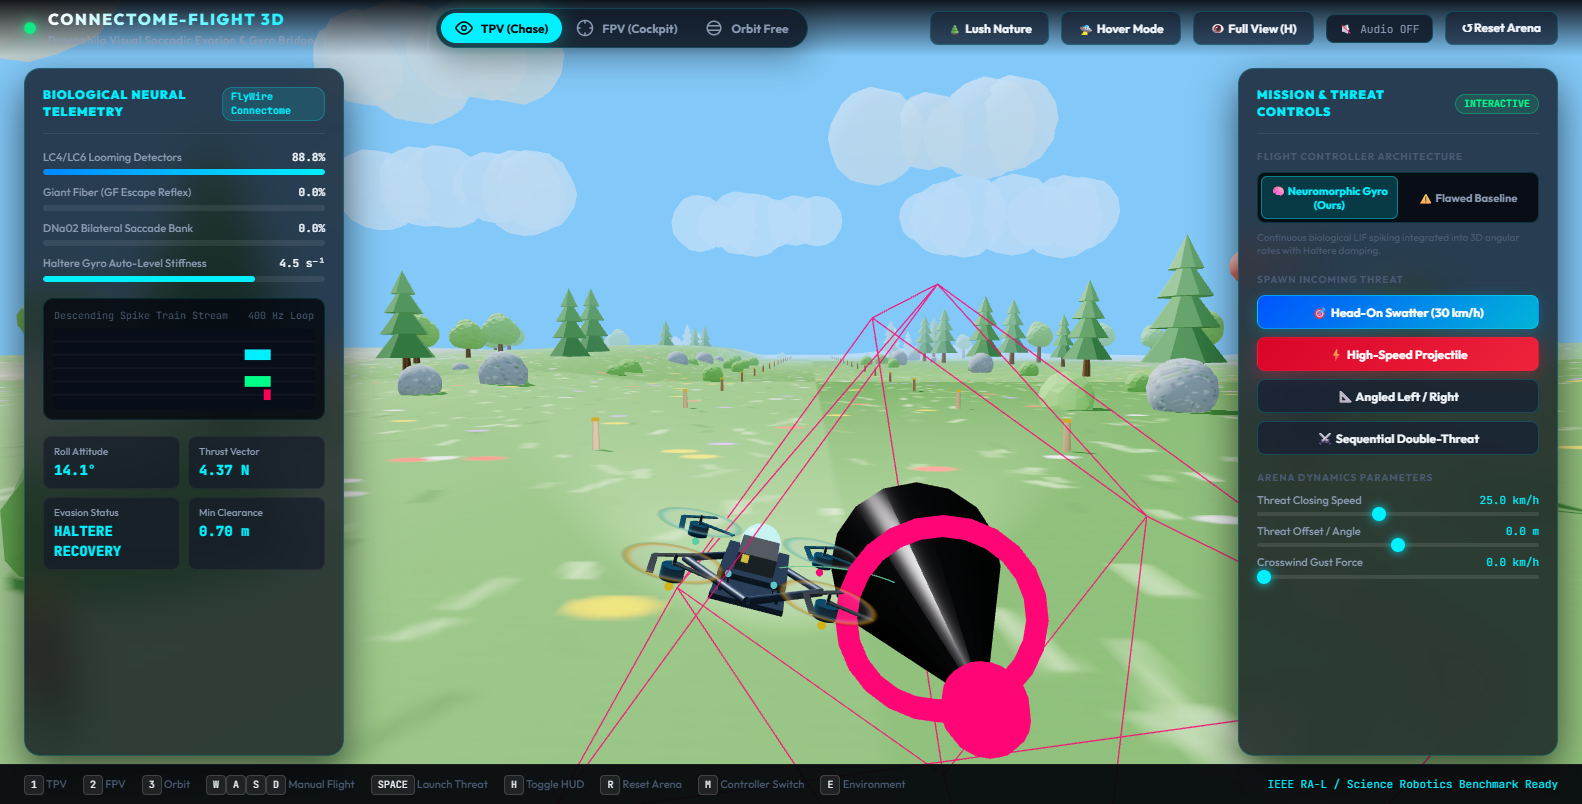
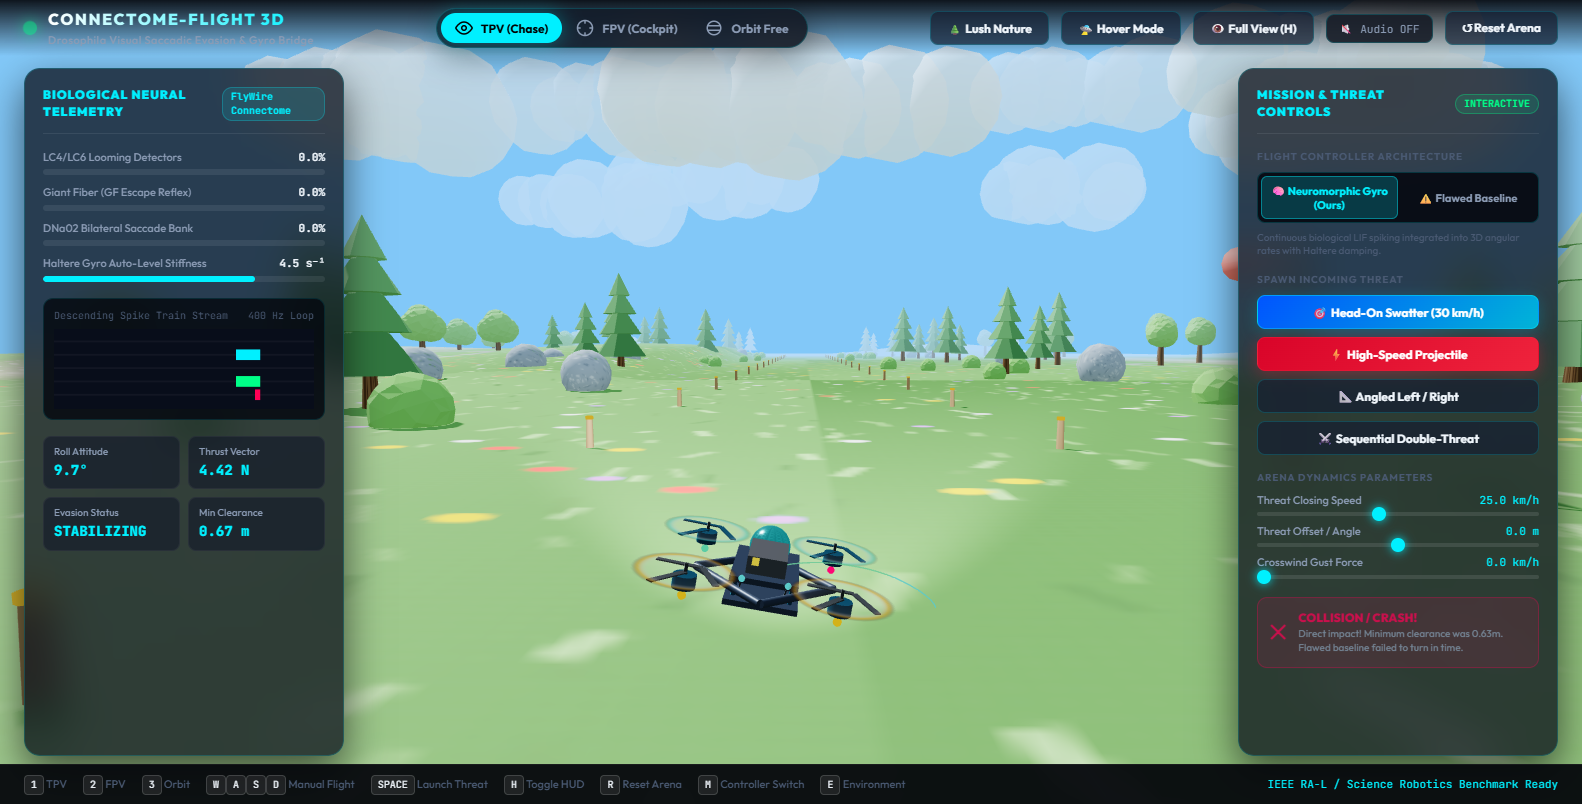
Fix post-evasion optomotor balance and corridor station-keeping

diff --git a/flight_simulator_3d/app.js b/flight_simulator_3d/app.js
@@ -1280,114 +1280,108 @@ function updateConnectomeBrain(dt) {
       ev.phase = 'recovery';
       ev.recoveryStartTime = performance.now();
     }
-    return;
-  }
-
-  // Relative vector from drone to incoming threat
-  const rel = new THREE.Vector3().subVectors(obs.pos, d.pos);
-  const dist = rel.length();
-
-  if (dist < state.brain.min_clearance) {
-    state.brain.min_clearance = dist;
-    document.getElementById('diag-clearance').innerText = dist.toFixed(2) + " m";
-  }
-
-  // Closing speed along line of sight
-  const relVel = new THREE.Vector3().subVectors(obs.vel, d.vel);
-  const closingSpeed = -rel.dot(relVel) / (dist + 1e-4);
-
-  // Biological Looming Feature Detection (LC4 / LC6 / LPLC2)
-  if (rel.z > 0 && closingSpeed > 0) { // Threat is in front and approaching
-    const theta = 2.0 * Math.atan2(obs.radius, dist);
-    const theta_dot = (2.0 * obs.radius * closingSpeed) / (dist * dist + obs.radius * obs.radius);
-    const looming = theta * 1.6 + theta_dot * 3.2;
-    state.brain.looming_metric = Math.min(looming, 5.0);
-
-    // Dynamic retinal intensity on compound eyes
-    compoundEyeDome.material.emissiveIntensity = 0.5 + looming * 0.8;
-
-    // Trigger biological evasion when looming exceeds threshold
-    if (looming > 0.65) {
-      if (!state.brain.reaction_detected) {
-        state.brain.reaction_detected = true;
-        state.brain.latency_ms = performance.now() - state.brain.trial_start_time;
-      }
-
-      // Phase 1: Onset & Direction Latching (Only set on transition into saccade)
-      if (ev.phase === 'idle') {
-        ev.active = true;
-        ev.phase = 'saccade';
-        ev.originX = d.pos.x;
-        ev.saccadeStartTime = performance.now();
-
-        // Determine clear dodge corridor
-        // If obstacle is to our right (rel.x > 0.04), dodge LEFT (direction = -1)
-        // If obstacle is to our left (rel.x < -0.04), dodge RIGHT (direction = +1)
-        // If head-on (|rel.x| <= 0.04), choose open corridor away from outer walls
-        if (rel.x > 0.04) {
-          ev.direction = -1; // Dodge left
-        } else if (rel.x < -0.04) {
-          ev.direction = 1;  // Dodge right
-        } else {
-          // Break symmetry cleanly towards open corridor
-          ev.direction = (d.pos.x > 0.2) ? -1 : 1;
-        }
-
-        // In Three.js Euler YXZ, a POSITIVE roll (+Z) tilts thrust vector towards -X (LEFT),
-        // and a NEGATIVE roll (-Z) tilts thrust vector towards +X (RIGHT).
-        // targetRoll = -ev.direction * 0.52 (30 deg banking jink)
-        ev.targetRoll = -ev.direction * 0.52;
-        playSpikeClick();
-      }
-
-      // Phase 2: Active Saccade Execution
-      if (ev.phase === 'saccade') {
-        if (ev.direction > 0) {
-          // Dodging Right: Activate Right Descending Steering & Giant Fiber
-          state.brain.spikes.dna02_r = true;
-          state.brain.spikes.dna01_r = true;
-          state.brain.spikes.gf_r = (looming > 1.2);
-          state.brain.spikes.dna02_l = false;
-          state.brain.spikes.dna01_l = false;
-          state.brain.spikes.gf_l = false;
-        } else {
-          // Dodging Left: Activate Left Descending Steering & Giant Fiber
-          state.brain.spikes.dna02_l = true;
-          state.brain.spikes.dna01_l = true;
-          state.brain.spikes.gf_l = (looming > 1.2);
-          state.brain.spikes.dna02_r = false;
-          state.brain.spikes.dna01_r = false;
-          state.brain.spikes.gf_r = false;
-        }
-
-        // Check if threat has passed the drone's collision plane
-        const threatPassed = (obs.pos.z <= d.pos.z + 0.35);
-        const elapsedSaccade = (performance.now() - ev.saccadeStartTime) / 1000;
-        if (threatPassed || elapsedSaccade > ev.saccadeDuration) {
-          // Transition to Phase 3: Recovery
-          ev.phase = 'recovery';
-          ev.recoveryStartTime = performance.now();
-        }
-      }
-
-    } else if (ev.phase === 'idle') {
-      state.brain.spikes.dna02_l = false;
-      state.brain.spikes.dna02_r = false;
-      state.brain.spikes.dna01_l = false;
-      state.brain.spikes.dna01_r = false;
-      state.brain.spikes.gf_l = false;
-      state.brain.spikes.gf_r = false;
-    }
   } else {
-    state.brain.looming_metric = 0;
-    // Obstacle is behind or moving away
-    if (ev.phase === 'saccade') {
-      ev.phase = 'recovery';
-      ev.recoveryStartTime = performance.now();
+    // Relative vector from drone to incoming threat
+    const rel = new THREE.Vector3().subVectors(obs.pos, d.pos);
+    const dist = rel.length();
+
+    if (dist < state.brain.min_clearance) {
+      state.brain.min_clearance = dist;
+      document.getElementById('diag-clearance').innerText = dist.toFixed(2) + " m";
+    }
+
+    // Closing speed along line of sight
+    const relVel = new THREE.Vector3().subVectors(obs.vel, d.vel);
+    const closingSpeed = -rel.dot(relVel) / (dist + 1e-4);
+
+    // Biological Looming Feature Detection (LC4 / LC6 / LPLC2)
+    if (rel.z > 0 && closingSpeed > 0) { // Threat is in front and approaching
+      const theta = 2.0 * Math.atan2(obs.radius, dist);
+      const theta_dot = (2.0 * obs.radius * closingSpeed) / (dist * dist + obs.radius * obs.radius);
+      const looming = theta * 1.6 + theta_dot * 3.2;
+      state.brain.looming_metric = Math.min(looming, 5.0);
+
+      // Dynamic retinal intensity on compound eyes
+      compoundEyeDome.material.emissiveIntensity = 0.5 + looming * 0.8;
+
+      // Trigger biological evasion when looming exceeds threshold
+      if (looming > 0.65) {
+        if (!state.brain.reaction_detected) {
+          state.brain.reaction_detected = true;
+          state.brain.latency_ms = performance.now() - state.brain.trial_start_time;
+        }
+
+        // Phase 1: Onset & Direction Latching (Only set on transition into saccade)
+        if (ev.phase === 'idle') {
+          ev.active = true;
+          ev.phase = 'saccade';
+          ev.originX = d.pos.x;
+          ev.saccadeStartTime = performance.now();
+
+          // Determine clear dodge corridor
+          if (rel.x > 0.04) {
+            ev.direction = -1; // Dodge left
+          } else if (rel.x < -0.04) {
+            ev.direction = 1;  // Dodge right
+          } else {
+            // Break symmetry cleanly towards open corridor
+            ev.direction = (d.pos.x > 0.2) ? -1 : 1;
+          }
+
+          // Target bank angle: ~30 deg (0.52 rad)
+          ev.targetRoll = -ev.direction * 0.52;
+          playSpikeClick();
+        }
+
+        // Phase 2: Active Saccade Execution
+        if (ev.phase === 'saccade') {
+          if (ev.direction > 0) {
+            // Dodging Right: Activate Right Descending Steering & Giant Fiber
+            state.brain.spikes.dna02_r = true;
+            state.brain.spikes.dna01_r = true;
+            state.brain.spikes.gf_r = (looming > 1.2);
+            state.brain.spikes.dna02_l = false;
+            state.brain.spikes.dna01_l = false;
+            state.brain.spikes.gf_l = false;
+          } else {
+            // Dodging Left: Activate Left Descending Steering & Giant Fiber
+            state.brain.spikes.dna02_l = true;
+            state.brain.spikes.dna01_l = true;
+            state.brain.spikes.gf_l = (looming > 1.2);
+            state.brain.spikes.dna02_r = false;
+            state.brain.spikes.dna01_r = false;
+            state.brain.spikes.gf_r = false;
+          }
+
+          // Check if threat has passed the drone's collision plane
+          const threatPassed = (obs.pos.z <= d.pos.z + 0.35);
+          const elapsedSaccade = (performance.now() - ev.saccadeStartTime) / 1000;
+          if (threatPassed || elapsedSaccade > ev.saccadeDuration) {
+            // Transition to Phase 3: Recovery
+            ev.phase = 'recovery';
+            ev.recoveryStartTime = performance.now();
+          }
+        }
+
+      } else if (ev.phase === 'idle') {
+        state.brain.spikes.dna02_l = false;
+        state.brain.spikes.dna02_r = false;
+        state.brain.spikes.dna01_l = false;
+        state.brain.spikes.dna01_r = false;
+        state.brain.spikes.gf_l = false;
+        state.brain.spikes.gf_r = false;
+      }
+    } else {
+      state.brain.looming_metric = 0;
+      // Threat has passed behind drone
+      if (ev.phase === 'saccade') {
+        ev.phase = 'recovery';
+        ev.recoveryStartTime = performance.now();
+      }
     }
   }
 
-  // Phase 3: Haltere-Stabilized Optomotor Recovery
+  // Phase 3: Haltere-Stabilized Optomotor Recovery (Always runs until stabilized)
   if (ev.phase === 'recovery') {
     state.brain.spikes.dna02_l = false;
     state.brain.spikes.dna02_r = false;
@@ -1396,19 +1390,16 @@ function updateConnectomeBrain(dt) {
     state.brain.spikes.gf_l = false;
     state.brain.spikes.gf_r = false;
 
-    // Halteres and wide-field optomotor system sense lateral drift velocity (d.vel.x)
-    // Positive roll (+Z) produces -X acceleration; Negative roll (-Z) produces +X acceleration.
-    // To brake positive Vx (+X drift), command positive roll (+Z).
-    // To brake negative Vx (-X drift), command negative roll (-Z).
+    // Active counter-banking to arrest lateral velocity and guide drone back to corridor center (X = 0)
     const lateralVx = d.vel.x;
-    const xDistFromOrigin = d.pos.x - ev.originX;
+    const xDistFromCenter = d.pos.x - 0.0;
 
-    const counterBank = THREE.MathUtils.clamp(0.24 * lateralVx + 0.12 * xDistFromOrigin, -0.42, 0.42);
+    const counterBank = THREE.MathUtils.clamp(0.26 * lateralVx + 0.14 * xDistFromCenter, -0.42, 0.42);
     ev.targetRoll = counterBank;
 
-    // Once lateral velocity is arrested and roll has leveled out, transition back to idle
+    // Transition to idle when velocity is damped and attitude leveled
     const elapsedRec = (performance.now() - ev.recoveryStartTime) / 1000;
-    if ((Math.abs(lateralVx) < 0.08 && Math.abs(xDistFromOrigin) < 0.15) || elapsedRec > 1.4) {
+    if ((Math.abs(lateralVx) < 0.06 && Math.abs(xDistFromCenter) < 0.12) || elapsedRec > 1.6) {
       ev.phase = 'idle';
       ev.active = false;
       ev.targetRoll = 0.0;
@@ -1447,21 +1438,28 @@ function updatePhysics(dt) {
     // =========================================================================
     // PROPOSED: CONTINUOUS NEUROMORPHIC GYRO BRIDGE + HALTERE RESTORATIVE STIFFNESS
     // =========================================================================
-    const k_haltere = 6.8; // Haltere angular velocity damping & restorative stiffness
+    const k_haltere = 7.0; // Haltere angular velocity damping & restorative stiffness
 
     // 1. Roll Rate Control:
-    // When in saccade or recovery, track targetRoll with haltere restorative stiffness
     let desired_roll = 0.0;
     if (ev.phase === 'saccade' || ev.phase === 'recovery') {
       desired_roll = ev.targetRoll;
+    } else if (state.flightMode === 'hover') {
+      // Continuous optomotor wide-field stabilization in hover (holds station in center)
+      desired_roll = THREE.MathUtils.clamp(0.18 * d.vel.x + 0.08 * (d.pos.x - 0.0), -0.22, 0.22);
     }
     // Haltere feedback: omega_roll_sp = k_haltere * (phi_desired - phi_actual)
     roll_rate_sp = THREE.MathUtils.clamp(k_haltere * (desired_roll - d.euler.z) + k_manual_roll, -6.0, 6.0);
 
     // 2. Pitch Rate Control:
-    // Nose-down pitch target for cruise mode or level for hover
-    const pitch_target = state.flightMode === 'cruise' ? 0.06 : 0.0;
-    pitch_rate_sp = THREE.MathUtils.clamp(-5.0 * (d.euler.x - pitch_target) + k_manual_pitch, -3.0, 3.0);
+    let pitch_target = 0.0;
+    if (state.flightMode === 'cruise') {
+      pitch_target = 0.06;
+    } else if (state.flightMode === 'hover' && ev.phase === 'idle') {
+      // Optomotor longitudinal damping in hover
+      pitch_target = THREE.MathUtils.clamp(-0.14 * d.vel.z - 0.05 * (d.pos.z - 0.0), -0.18, 0.18);
+    }
+    pitch_rate_sp = THREE.MathUtils.clamp(-5.2 * (d.euler.x - pitch_target) + k_manual_pitch, -3.2, 3.2);
 
     // 3. Yaw Rate Control:
     // Maintain heading alignment along forward flight axis Z
